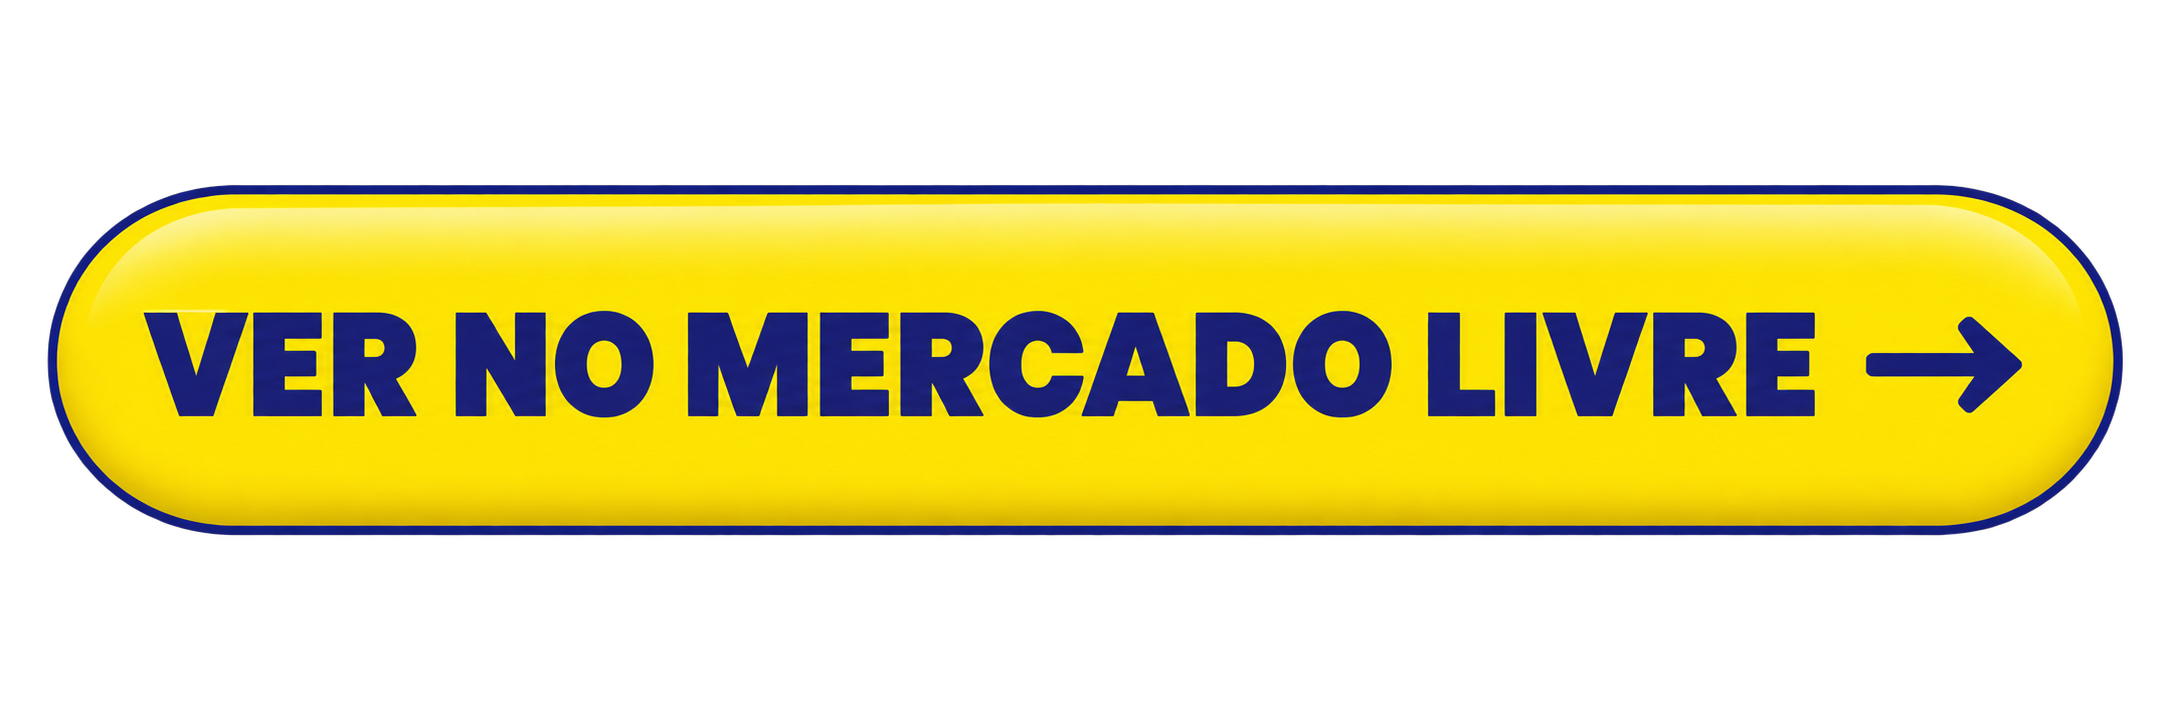
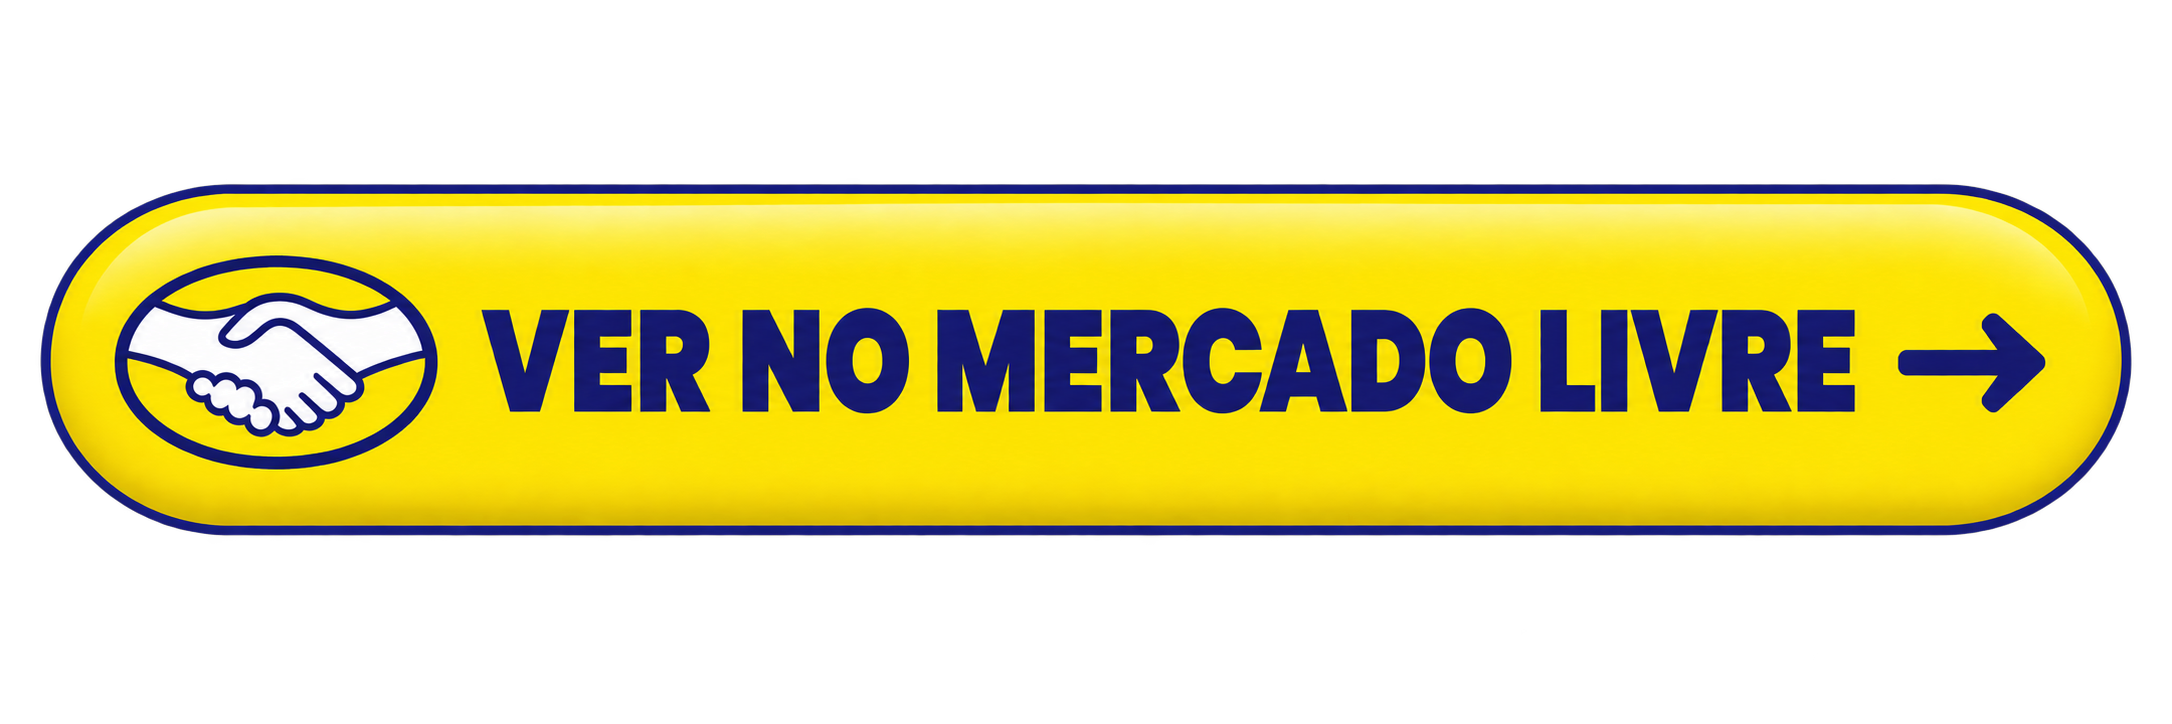
loja: botoes do dono (imagens) por loja, avise-me no desenho dele, menu de lojas opaco no PC; pendencias anotadas

Changed region(s): [[0.0, 0.2431, 0.9871, 0.7293], [0.0617, 0.6989, 0.0925, 0.7293]]

diff --git a/paginas/todos.html b/paginas/todos.html
@@ -1245,6 +1245,8 @@
     }
     .opcoes::before { display: none; }
     .escurece { display: none; }
+    .opcoes.vidro, .opcoes { background: #fff !important; backdrop-filter: none !important; -webkit-backdrop-filter: none !important; }
+    .opcoes > canvas.espelho { display: none !important; }
   }
   .opcao {
     display: flex; align-items: center; gap: 8px; width: 100%;
@@ -2058,6 +2060,19 @@
   .avise-me + .avise-me { margin-top: 0; }
   .avise-me.repor { min-height: 34px; font-size: 11px; }
   .ja-esteve.tambem-em strong { color: var(--verde); font-weight: 700; }
+  /* ⭐ 05/10/2026 (dono: "botão para o avise-me? e de fundo para o 'se voltar a X'?"): o MESMO desenho do
+     botão "Me avise quando baixar" dele (branco, borda preta, sombra dura, sino) em CSS -- assim o texto
+     muda ("se voltar a R$ X"). Secundário (acervo: um principal cheio + um de contorno): menor que o da loja. */
+  .item .avise-me:not(.repor) { background: #fff; color: #111; border: 1.5px solid #111; border-radius: 999px;
+    box-shadow: 2px 2px 0 #111; font-weight: 600; min-height: 32px; padding: 5px 8px; gap: 5px;
+    margin: 8px 3% 4px; width: 94%;
+    transition: transform .12s ease, box-shadow .12s ease; }
+  .item .avise-me:not(.repor) svg { display: inline-block; width: 13px; height: 13px; flex: none; }
+  .item .avise-me:not(.repor) span { font-size: 0.6875rem; }
+  .item .avise-me:not(.repor):has(.nq) svg { display: none; }
+  .item .avise-me:not(.repor) svg path { fill: currentColor; }
+  .item .avise-me:not(.repor):hover { color: #111; border-color: #111; transform: translate(-1px,-1px); box-shadow: 4px 4px 0 #111; }
+  .item .avise-me:not(.repor):active { transform: translate(2px,2px); box-shadow: 1px 1px 0 #111; }
   .nota {
     display: inline-flex; align-items: center; gap: 4px; margin-left: 0;
     font: 600 0.78125rem/1 var(--mono); color: var(--fraco);   /* BLOCO A: mesmo degrau do 'vendidos' */
@@ -2712,7 +2727,7 @@
     .baloes .canais { left: calc(100% + max(12px, (100vw - 944px) / 4 - 60px)); }
     .baloes .lado .flutua { --t: 112px; }
   }
-  .hist-link { display: inline-block; margin-top: 4px; font-size: 12px; color: #8a6d12; text-decoration: underline; text-underline-offset: 2px; }
+  .hist-link { display: inline-block; white-space: nowrap; margin-top: 4px; font-size: 11.5px; color: #8a6d12; text-decoration: underline; text-underline-offset: 2px; }
   .links-seo { font-size: 13px; text-align: center; } .links-seo a { color: inherit; }
   .balao-bloco { display: none; }
   @media (min-width: 1440px) {
@@ -2921,6 +2936,13 @@
     .balao:nth-child(even) { margin-top: 120px !important; }
     .flutua b { display: block; }
   }
+  /* ⭐ 05/10/2026: botao = IMAGEM do dono (ver BOTAO_LOJA no JS); as cores abaixo ficam de reserva */
+  .item .cta.cta-img { background: none !important; border: 0 !important; padding: 0 !important; box-shadow: none !important;
+    min-height: 0; display: block; line-height: 0; transition: transform .15s cubic-bezier(.2,.8,.2,1), filter .15s; }
+  .item .cta.cta-img::before, .item .cta.cta-img::after { display: none !important; }
+  .item .cta.cta-img img { width: 100%; height: auto; display: block; filter: drop-shadow(0 3px 6px rgba(20,16,30,.18)); }
+  .item:hover .cta.cta-img { transform: translateY(-1px); filter: brightness(1.05); }
+  .item:active .cta.cta-img { transform: scale(.97); }
   /* 05/10/2026 (dono, "opcao A"): botao com a COR DE CADA LOJA (cores aproximadas) */
   .item .cta.cta-loja { position: relative; overflow: hidden; border: 2px solid transparent; font-weight: 800;
     letter-spacing: .3px; text-transform: uppercase; font-size: .75rem; white-space: normal; text-align: center; line-height: 1.1; }
@@ -4711,7 +4733,19 @@
     // \u2b50 23/09/2026 (Bryan: "o comprar agora dos cards menores eu quero sem
     // a seta"): so' na grade -- a capa (bem maior, o hero) continua com a
     // seta, que e' de onde este pedido NAO fala.
-    cta.appendChild(document.createTextNode(ctaL[1]));
+    // ⭐ 05/10/2026 (dono: "esse não é o botão que eu fiz"): os BOTÕES DO DONO
+    // (imagens em /baloes/botao_*.webp). Loja sem botão próprio: "Ver na loja".
+    var BOTAO_LOJA = {
+      "AliExpress": "botao_ver_no_aliexpress", "Mercado Livre": "botao_ver_no_mercado_livre",
+      "Kabum": "botao_ver_na_kabum", "Nike": "botao_ver_na_nike", "Drogal": "botao_ver_na_drogal",
+      "Guess": "botao_ver_na_guess", "Lauri Esporte": "botao_ver_na_lauri", "Soldiers Nutrition": "botao_ver_na_soldiers",
+      "Stanley": "botao_ver_na_stanley", "Arno": "botao_ver_na_arno"
+    };
+    var bimg = document.createElement("img");
+    bimg.src = "/baloes/" + (BOTAO_LOJA[p.loja] || "botao_ver_na_loja") + ".webp";
+    bimg.alt = ""; bimg.decoding = "async"; bimg.loading = "lazy";
+    cta.className += " cta-img";
+    cta.appendChild(bimg);
     cta.setAttribute("aria-hidden", "true");
     corpo.appendChild(cta);
     a.title = (p.pontos >= 2
@@ -6618,6 +6652,10 @@
     function ligarFilhos() {
       document.querySelectorAll("#chips .chip-ordem, #chips .escolha, .busca-caixa, .opcoes").forEach(function (n) {
         if (n.__espelho) { return; }
+        // ⛔ 05/10/2026 (print do dono no PC): o espelho de vidro (WebGL) pintava
+        // o menu de lojas transparente por cima do fundo branco. No PC o menu
+        // e' painel opaco -- sem vidro.
+        if (n.classList.contains("opcoes") && window.matchMedia && matchMedia("(min-width: 700px)").matches) { return; }
         n.classList.add("vidro");
         ligar(n, n.classList.contains("busca-caixa") ? 16 : (n.classList.contains("opcoes") ? 24 : 12));
       });

diff --git a/handoff/REGISTRO_05-10-2026_D.md b/handoff/REGISTRO_05-10-2026_D.md
@@ -267,3 +267,14 @@
 - Google Imagens (+acervo: alt e nome descritivos): todas as fotos de /p/, /melhores/ e /guias/ com alt = nome do produto;
   sitemap com `<image:image>` (loc + title) em cada /p/ (namespace image no urlset).
 - +3 guias: suporte de celular para carro (4), fita de LED (4), luva/grip/strap de academia (6). Total: 6 guias.
+
+## 38. Botões do dono na vitrine + avise-me + menu de lojas no PC
+- Dono: "esse não é o botão que eu fiz". A vitrine usava imitação em CSS ("opção A"). Agora cada cartão usa a IMAGEM do dono
+  (`/baloes/botao_ver_*.webp`, 420 px, ~9 KB; mapa `BOTAO_LOJA` no todos.html; sem botão próprio → `botao_ver_na_loja`).
+- O "Ver no Mercado Livre" COM o logo (aperto de mãos) só existia no chat → salvo em midia/botoes_originais + botoes_web (substitui o sem logo).
+- Avise-me (+acervo: 1 CTA principal cheio + 1 secundário de contorno): no desenho do botão "Me avise quando baixar" do dono
+  (branco, borda preta, sombra dura, sino) em CSS para o texto mudar ("se voltar a R$ X"); menor que o da loja; sem sino quando tem preço.
+  Medido: 0 cortes no PC (antes 19), 1 com reticência no celular.
+- Menu de lojas no PC transparente: o espelho de vidro (WebGL, só desenha em PC com GPU) ligava no `.opcoes`. Não liga mais ≥700 px
+  e fundo branco com prioridade. Cartões do ML sem foto no print = ainda carregando (conferido: fotos ok).
+- Pendências anotadas (PENDENCIAS_ABERTAS, lembrete toda segunda): guia novo por tema, hospedar fotos, regra vídeo → loja direto.

diff --git a/handoff/PENDENCIAS_ABERTAS.md b/handoff/PENDENCIAS_ABERTAS.md
@@ -22,6 +22,10 @@
 - [ ] **Bing Webmaster** — dono importa do Search Console (§5-B). **Pinterest** — conta empresa (§5-C). (05/10)
 - [ ] **Palavras-chave** — lista de 30–50 termos (Keyword Planner + autocompletar) para escolher as próximas listas /melhores/. (05/10)
 
+- [ ] **⭐ Guia novo quando um tema juntar ≥3 produtos com /p/** — candidatos: organizador de cabos, descascador/ralador, whey/creatina, tapete de banheiro, pistola de massagem. Molde: `GUIAS` em engine/paginas_produto.py. (05/10, pedido do dono: "não esqueça")
+- [ ] **Hospedar as fotos dos produtos** no nosso domínio com nome-palavra-chave (Google Imagens). Hoje a foto vem da loja. Pesa no PC → fazer na nuvem (Actions) ou no Cloudflare. (05/10, dono: "não podemos esquecer")
+- [ ] **Vídeos → link:** regra do dono (05/10): por padrão o vídeo leva DIRETO à loja (venda sem atrito); /p/ só quando agrega (comparar preço, vários modelos, cupom). Implementar nos posts do Telegram/descrições com essa regra.
+
 ## Resolvidas
 - 05/10 Sem Anestesia barrado por '#N' no título (agendador) — ver REGISTRO_05-10-2026_D.
 - 05/10 Corte 1 por vez → até 3 simultâneos.

diff --git a/midia/botoes_originais/LEIA.md b/midia/botoes_originais/LEIA.md
@@ -17,3 +17,4 @@ No SITE o botão é em CÓDIGO (mesmo visual, ajusta a qualquer tela): ver pagin
 
 Recortados (sem sobra transparente): midia/botoes_web/*.png e *.webp (600 px).
 Prompts: handoff/REGISTRO_05-10-2026_D.md e conversa de 05/10.
+- 05/10 23:30: botao_ver_no_mercado_livre trocado pela versão COM o logo (aperto de mãos), enviada pelo dono no chat.
